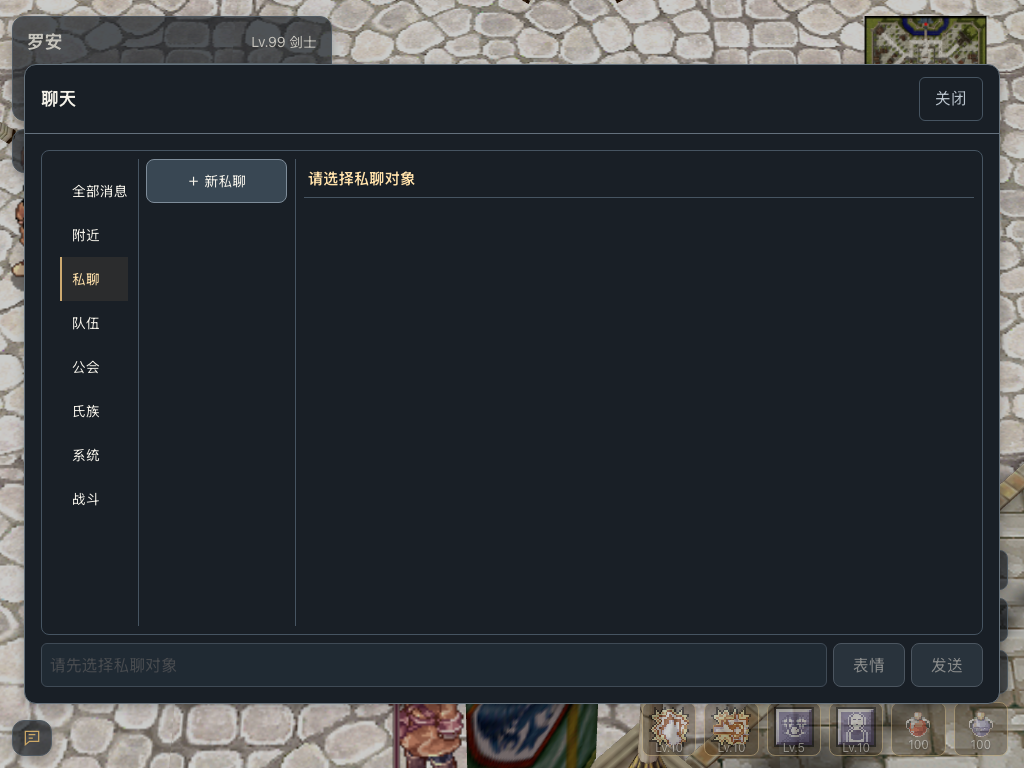
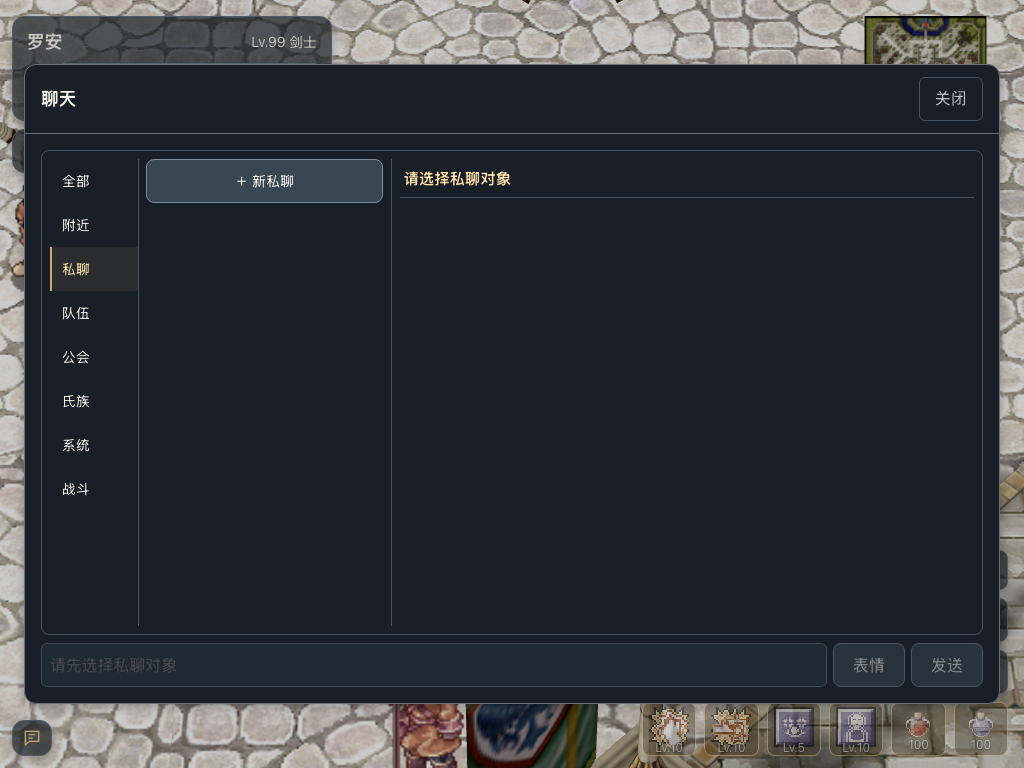
docs(chat): Refresh mobile guidance and product changelog

diff --git a/docs/changelog/2026/10/2026-10-21.md b/docs/changelog/2026/10/2026-10-21.md
@@ -1,5 +1,16 @@
 # 2026-10-21
 
+## 优化
+
+- `[client]` 移动端聊天分类“全部消息”简化为“全部”。
+- `[client]` 聊天通过独立公共覆盖样式取消上下留白，私聊对象列表单独取消左右留白以对齐按钮；私聊对象项与新私聊按钮等宽，平板横竖屏统一三列布局并加宽对象列，缩小名称与删除按钮间的多余空白。
+- `[client]` 表情发送成功后立即关闭移动端聊天窗口，失败时保留窗口与提示，普通文字发送仍保持窗口打开。
+- `[client]` 冒险工具的地图、魔物、物品、NPC 列表与详情统一左右留白，与顶部搜索及关闭按钮对齐，底栏按钮同步对齐右边缘，并与角色、设置共用冒险工具内的间距变量；手机竖屏角色页消除搜索框重复左缩进，去掉分隔线后的额外列间距，右侧内容左留白保留 6px；手机横屏等级与点数及恢复状态、转换职业操作区统一为每行三列等宽布局，修正图鉴底栏嵌套留白与设置内容/底栏共用边界；不修改公共菜单组件。
+- `[client]` 冒险工具物品列表图标取消边框，掉落表格数据与表头统一左对齐，并消除平板第一列名称按钮继承的额外内边距，手机竖屏搜索框延伸至翻页按钮前，仅保留 6px 间距。
+- `[client]` 手机竖屏冒险工具地图选项通过行高与内边距为图标上下各保留 3px，避免贴住选项边框；消除地图搜索框重复左缩进，与列表左侧对齐。
+- `[client]` 平板冒险工具左侧列表靠分隔线的留白缩至 8px；平板竖屏地图隐藏 NPC 坐标，地图与 NPC 栏宽度改为 3:2。
+
 ## 修复
 
+- `[client]` 撤回 `075d6c4f` 引入的统一列表透明边框留白及额外外框，恢复各菜单原有列表样式；保留社交详情排版和后续聊天功能调整。
 - `[client]` 修复移动端聊天分类栏的垂直分隔线被公共列表透明边框覆盖的问题，横竖屏均保留分隔线。

diff --git a/docs/game/social.md b/docs/game/social.md
@@ -14,13 +14,15 @@
 
 ## 私聊
 
-选择“私聊”后选择对象，或点击“新私聊”输入准确的角色名。横屏时对象列表位于分类右侧，竖屏时位于消息内容下方。长名称在列表中省略，选中后的消息区顶部显示完整名字。
+选择“私聊”后选择对象，或点击“新私聊”输入准确的角色名。平板横竖屏及手机横屏时，对象列表位于分类右侧；仅手机竖屏将对象列表放在消息内容下方。长名称在列表中省略，选中后的消息区顶部显示完整名字。
 
 ![罗安的平板私聊入口](/images/game/social/tablet-chat.png)
 
 新建对象只是选择收件人，不证明角色存在或在线；发送结果以聊天提示为准。删除对象选项不会删除游戏好友关系。私聊并非排他会话，第三个人仍能分别向双方发送消息。
 
 消息流保存在当前页面内存中，不作为长期历史记录；重新加载页面或退出后不要依赖它恢复聊天记录。
+
+选择表情并发送成功后，聊天窗口立即关闭，方便查看角色表情；发送失败时保留窗口和提示。发送普通文字不会关闭聊天窗口。
 
 ## 好友、队伍与公会
 
